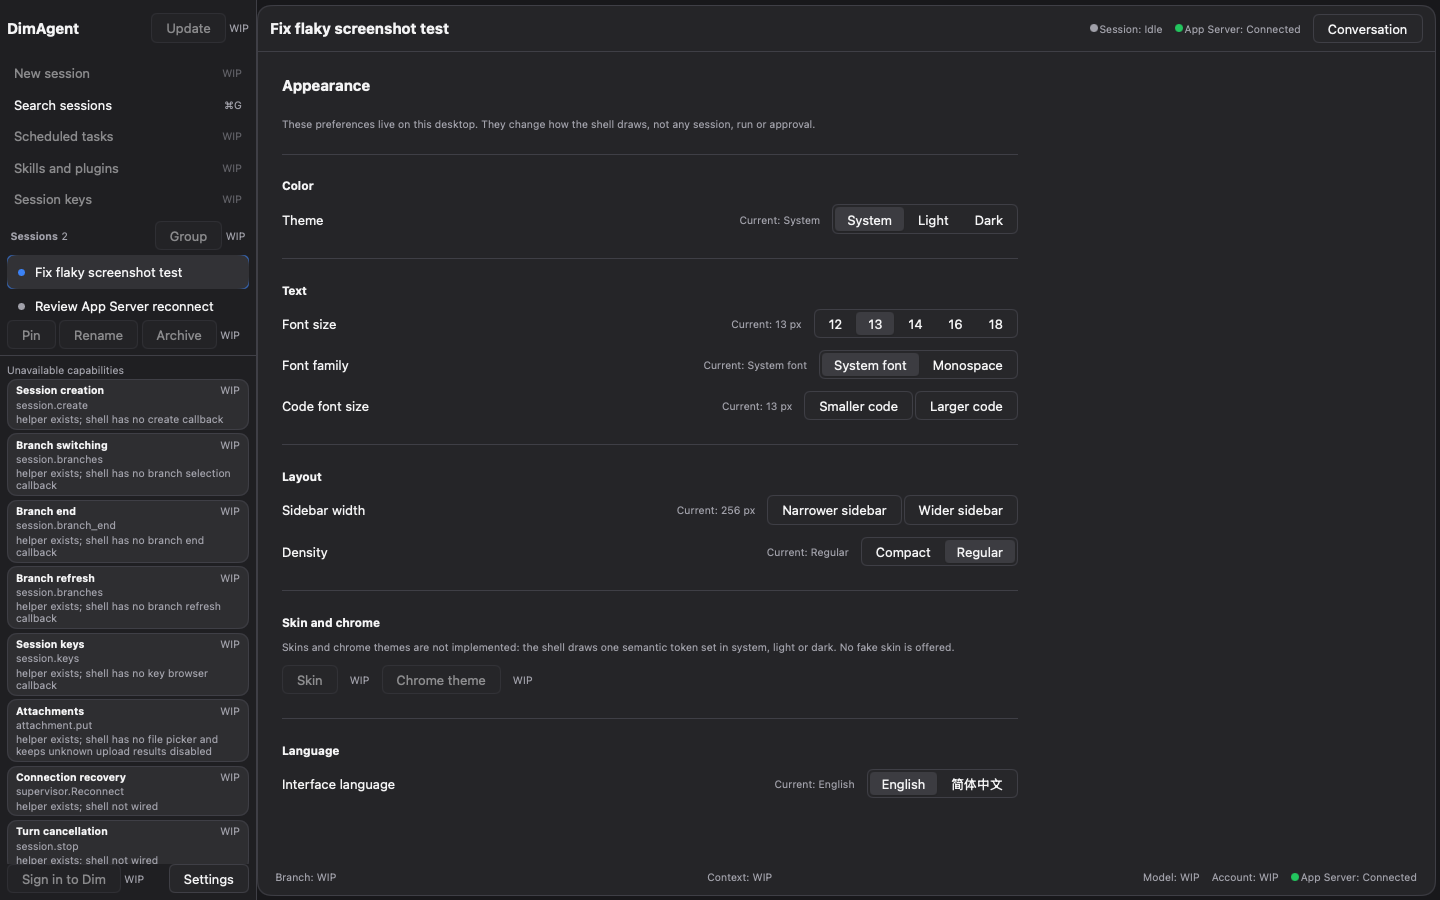
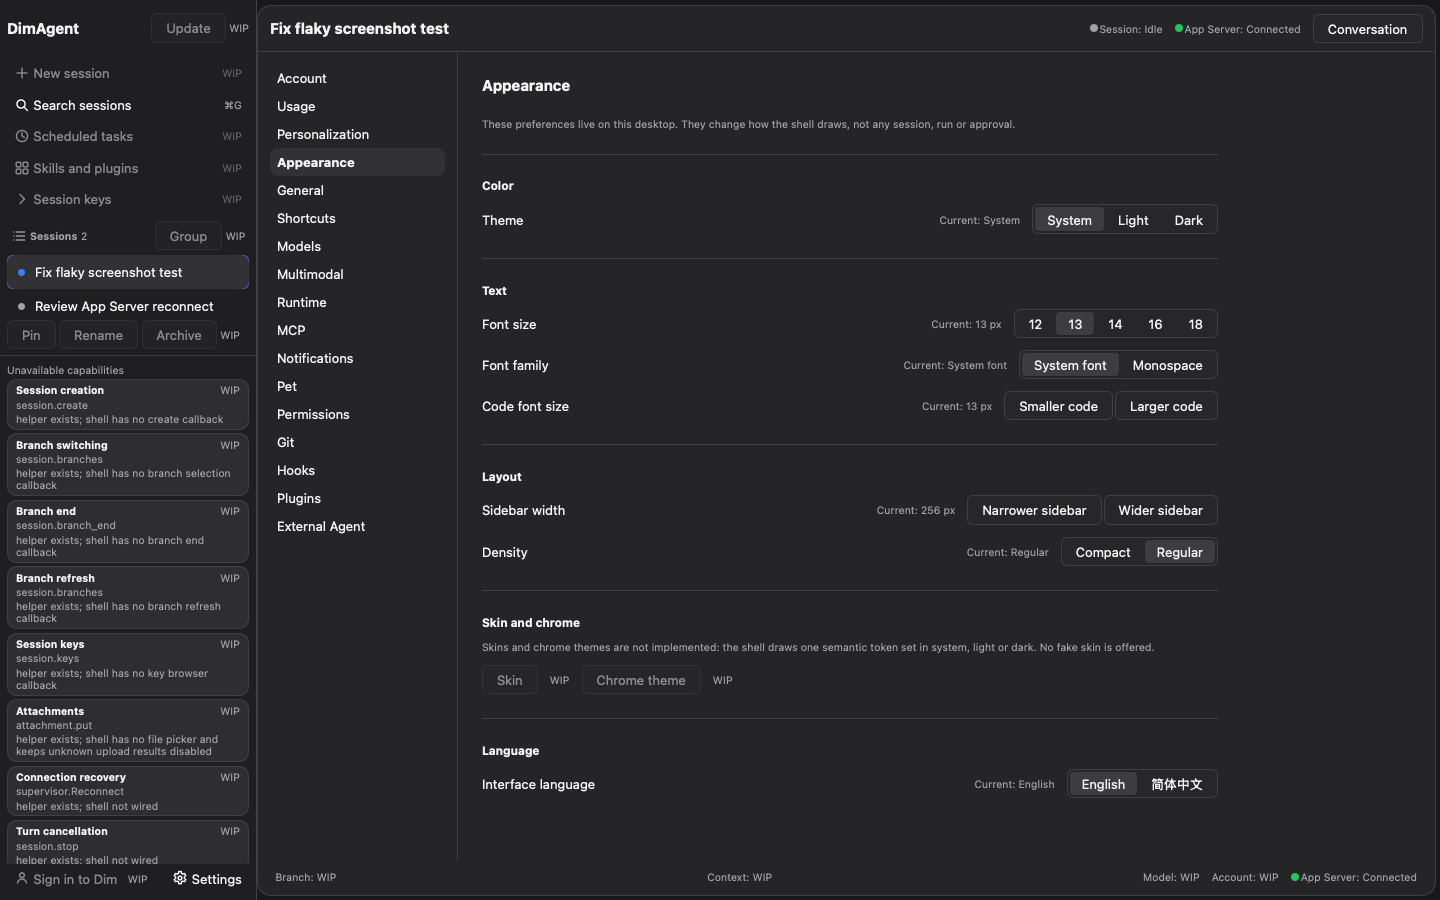
feat(ui): add settings navigation and localized section pages

diff --git a/internal/ui/i18n.go b/internal/ui/i18n.go
@@ -201,6 +201,10 @@ const (
 	keyCapabilityTurnCancel        = "capability.turnCancellation.action"
 	keyCapabilityTurnCancelGap     = "capability.turnCancellation.gap"
 
+	// Settings navigation: the section names and the WIP reason of each page the
+	// shell cannot open yet.
+	keySettingsNavigation = "settings.navigation"
+
 	// Layout pieces the shell draws around the conversation: the empty-state
 	// hero, the composer's context row and the sidebar's account footer.
 	keyHeroTitle            = "hero.title"
@@ -220,36 +224,61 @@ var stringsEN = Strings{
 	keyNoSession:           "No session",
 	keyComposerPlaceholder: composerPlaceholder,
 
-	keySidebarNavigation:    "Session sidebar",
-	keySidebarUpdate:        "Update",
-	keySidebarNewSession:    "New session",
-	keySidebarSearch:        "Search sessions",
-	keySidebarSearchLabel:   "Filter sessions",
-	keySidebarSearchHint:    "Title or id",
-	keySidebarKeys:          "Session keys",
-	keySidebarSessions:      "Sessions",
-	keySidebarGroup:         "Group",
-	keySidebarEmpty:         "No sessions yet",
-	keySidebarEmptyFiltered: "No matching sessions",
-	keySidebarUngrouped:     ungroupedLabel,
-	keySidebarBranches:      "Branches",
-	keySidebarBranchesRO:    "Branches (read-only)",
-	keySidebarBranchCurrent: "current",
-	keySidebarBranchSuffix:  " (current)",
-	keySidebarRefresh:       "Refresh",
-	keySidebarEndBranch:     "End branch",
-	keySidebarThreadActions: "Thread actions (unavailable)",
-	keySidebarPin:           "Pin",
-	keySidebarRename:        "Rename",
-	keySidebarArchive:       "Archive",
-	keySidebarScheduled:     "Scheduled tasks",
-	keySidebarSkills:        "Skills and plugins",
-	keySidebarAccount:       "Sign in to Dim",
-	keySidebarSettingsEntry: "Settings",
-	keyHeroTitle:            "Start building",
-	keyHeroSubtitle:         "Ask DimAgent to change code, run a command or explain a session.",
-	keyComposerWorkspace:    "Workspace",
-	keyComposerPermission:   "Default permissions",
+	keySidebarNavigation:       "Session sidebar",
+	keySidebarUpdate:           "Update",
+	keySidebarNewSession:       "New session",
+	keySidebarSearch:           "Search sessions",
+	keySidebarSearchLabel:      "Filter sessions",
+	keySidebarSearchHint:       "Title or id",
+	keySidebarKeys:             "Session keys",
+	keySidebarSessions:         "Sessions",
+	keySidebarGroup:            "Group",
+	keySidebarEmpty:            "No sessions yet",
+	keySidebarEmptyFiltered:    "No matching sessions",
+	keySidebarUngrouped:        ungroupedLabel,
+	keySidebarBranches:         "Branches",
+	keySidebarBranchesRO:       "Branches (read-only)",
+	keySidebarBranchCurrent:    "current",
+	keySidebarBranchSuffix:     " (current)",
+	keySidebarRefresh:          "Refresh",
+	keySidebarEndBranch:        "End branch",
+	keySidebarThreadActions:    "Thread actions (unavailable)",
+	keySidebarPin:              "Pin",
+	keySidebarRename:           "Rename",
+	keySidebarArchive:          "Archive",
+	keySidebarScheduled:        "Scheduled tasks",
+	keySidebarSkills:           "Skills and plugins",
+	keySidebarAccount:          "Sign in to Dim",
+	keySidebarSettingsEntry:    "Settings",
+	keyHeroTitle:               "Start building",
+	keyHeroSubtitle:            "Ask DimAgent to change code, run a command or explain a session.",
+	keyComposerWorkspace:       "Workspace",
+	keyComposerPermission:      "Default permissions",
+	keySettingsNavigation:      "Settings sections",
+	"settings.section.account": "Account", "settings.section.usage": "Usage",
+	"settings.section.personalization": "Personalization", "settings.section.general": "General",
+	"settings.section.shortcuts": "Shortcuts", "settings.section.models": "Models",
+	"settings.section.multimodal": "Multimodal", "settings.section.runtime": "Runtime",
+	"settings.section.mcp": "MCP", "settings.section.notifications": "Notifications",
+	"settings.section.pet": "Pet", "settings.section.permissions": "Permissions",
+	"settings.section.git": "Git", "settings.section.hooks": "Hooks",
+	"settings.section.plugins": "Plugins", "settings.section.externalAgent": "External Agent",
+	"settings.gap.account":         "Unavailable: the shell has no account client or page yet, so it cannot show an account or sign in.",
+	"settings.gap.usage":           "Unavailable: the shell has no usage client or page yet; no App Server method reports usage here.",
+	"settings.gap.personalization": "Unavailable: the personalization page is not built yet; the shell has no client for the interface-mode, ACP-session, target-app, assistant-model or subagent-model settings it shows.",
+	"settings.gap.general":         "Unavailable: the general settings page is not built yet; the shell has no client for its desktop preferences.",
+	"settings.gap.shortcuts":       "Unavailable: the shortcuts page is not built yet; the shell has no keybinding client or editor.",
+	"settings.gap.models":          "Unavailable: the models page is not built yet; the shell has no model-provider client or page.",
+	"settings.gap.multimodal":      "Unavailable: the multimodal page is not built yet; the shell has no multimodal client or page.",
+	"settings.gap.runtime":         "Unavailable: the runtime page is not built yet; the shell has no runtime client or page.",
+	"settings.gap.mcp":             "Unavailable: the MCP page is not built yet; the shell has no MCP server client or page.",
+	"settings.gap.notifications":   "Unavailable: the notifications page is not built yet; the shell has no notification client or page.",
+	"settings.gap.pet":             "Unavailable: the pet page is not built yet; the shell has no pet client or page.",
+	"settings.gap.permissions":     "Unavailable: the permissions page is not built yet; the shell shows approvals but has no rule editor, permissions client or page.",
+	"settings.gap.git":             "Unavailable: the Git page is not built yet; the shell has no Git client or page.",
+	"settings.gap.hooks":           "Unavailable: the hooks page is not built yet; the shell has no hooks client or page.",
+	"settings.gap.plugins":         "Unavailable: the plugins page is not built yet; the shell has no plugin client or page.",
+	"settings.gap.externalAgent":   "Unavailable: the external agent page is not built yet; the shell has no external-agent client or page.",
 
 	keyReasonCreateSession:   reasonCreateSession,
 	keyReasonApproval:        reasonApproval,
@@ -347,36 +376,61 @@ var stringsZHCN = Strings{
 	keyNoSession:           "未选择会话",
 	keyComposerPlaceholder: "给 DimAgent 发消息",
 
-	keySidebarNavigation:    "会话侧栏",
-	keySidebarUpdate:        "更新",
-	keySidebarNewSession:    "新建会话",
-	keySidebarSearch:        "搜索会话",
-	keySidebarSearchLabel:   "筛选会话",
-	keySidebarSearchHint:    "标题或 ID",
-	keySidebarKeys:          "会话键",
-	keySidebarSessions:      "会话",
-	keySidebarGroup:         "分组",
-	keySidebarEmpty:         "暂无会话",
-	keySidebarEmptyFiltered: "没有匹配的会话",
-	keySidebarUngrouped:     "无项目",
-	keySidebarBranches:      "分支",
-	keySidebarBranchesRO:    "分支（只读）",
-	keySidebarBranchCurrent: "当前",
-	keySidebarBranchSuffix:  "（当前）",
-	keySidebarRefresh:       "刷新",
-	keySidebarEndBranch:     "结束分支",
-	keySidebarThreadActions: "会话操作（不可用）",
-	keySidebarPin:           "置顶",
-	keySidebarScheduled:     "定时任务",
-	keySidebarSkills:        "技能/插件",
-	keySidebarAccount:       "登录 Dim",
-	keySidebarSettingsEntry: "设置",
-	keyHeroTitle:            "开始构建",
-	keyHeroSubtitle:         "让 DimAgent 改代码、跑命令，或解释一个会话。",
-	keyComposerWorkspace:    "工作区",
-	keyComposerPermission:   "默认权限",
-	keySidebarRename:        "重命名",
-	keySidebarArchive:       "归档",
+	keySidebarNavigation:       "会话侧栏",
+	keySidebarUpdate:           "更新",
+	keySidebarNewSession:       "新建会话",
+	keySidebarSearch:           "搜索会话",
+	keySidebarSearchLabel:      "筛选会话",
+	keySidebarSearchHint:       "标题或 ID",
+	keySidebarKeys:             "会话键",
+	keySidebarSessions:         "会话",
+	keySidebarGroup:            "分组",
+	keySidebarEmpty:            "暂无会话",
+	keySidebarEmptyFiltered:    "没有匹配的会话",
+	keySidebarUngrouped:        "无项目",
+	keySidebarBranches:         "分支",
+	keySidebarBranchesRO:       "分支（只读）",
+	keySidebarBranchCurrent:    "当前",
+	keySidebarBranchSuffix:     "（当前）",
+	keySidebarRefresh:          "刷新",
+	keySidebarEndBranch:        "结束分支",
+	keySidebarThreadActions:    "会话操作（不可用）",
+	keySidebarPin:              "置顶",
+	keySidebarScheduled:        "定时任务",
+	keySidebarSkills:           "技能/插件",
+	keySidebarAccount:          "登录 Dim",
+	keySidebarSettingsEntry:    "设置",
+	keyHeroTitle:               "开始构建",
+	keyHeroSubtitle:            "让 DimAgent 改代码、跑命令，或解释一个会话。",
+	keyComposerWorkspace:       "工作区",
+	keyComposerPermission:      "默认权限",
+	keySettingsNavigation:      "设置分区",
+	"settings.section.account": "账户", "settings.section.usage": "用量",
+	"settings.section.personalization": "个性化", "settings.section.general": "通用",
+	"settings.section.shortcuts": "快捷键", "settings.section.models": "模型供应",
+	"settings.section.multimodal": "多模态", "settings.section.runtime": "运行环境",
+	"settings.section.mcp": "MCP", "settings.section.notifications": "通知",
+	"settings.section.pet": "宠物", "settings.section.permissions": "权限",
+	"settings.section.git": "Git", "settings.section.hooks": "Hooks",
+	"settings.section.plugins": "插件设置", "settings.section.externalAgent": "外部 Agent",
+	"settings.gap.account":         "不可用：本 shell 还没有账户客户端或页面，无法显示账户或登录。",
+	"settings.gap.usage":           "不可用：本 shell 还没有用量客户端或页面，App Server 也没有报告用量的方法。",
+	"settings.gap.personalization": "不可用：个性化页面尚未实现；本 shell 没有界面模式、ACP 会话、目标应用、助手模型或子代理模型的客户端。",
+	"settings.gap.general":         "不可用：通用设置页面尚未实现；本 shell 没有对应的桌面偏好客户端。",
+	"settings.gap.shortcuts":       "不可用：快捷键页面尚未实现；本 shell 没有键位客户端或编辑器。",
+	"settings.gap.models":          "不可用：模型页面尚未实现；本 shell 没有模型供应客户端或页面。",
+	"settings.gap.multimodal":      "不可用：多模态页面尚未实现；本 shell 没有多模态客户端或页面。",
+	"settings.gap.runtime":         "不可用：运行环境页面尚未实现；本 shell 没有运行时客户端或页面。",
+	"settings.gap.mcp":             "不可用：MCP 页面尚未实现；本 shell 没有 MCP 服务器客户端或页面。",
+	"settings.gap.notifications":   "不可用：通知页面尚未实现；本 shell 没有通知客户端或页面。",
+	"settings.gap.pet":             "不可用：宠物页面尚未实现；本 shell 没有宠物客户端或页面。",
+	"settings.gap.permissions":     "不可用：权限页面尚未实现；本 shell 有审批，但没有规则编辑器、权限客户端或页面。",
+	"settings.gap.git":             "不可用：Git 页面尚未实现；本 shell 没有 Git 客户端或页面。",
+	"settings.gap.hooks":           "不可用：Hooks 页面尚未实现；本 shell 没有 hooks 客户端或页面。",
+	"settings.gap.plugins":         "不可用：插件设置页面尚未实现；本 shell 没有插件客户端或页面。",
+	"settings.gap.externalAgent":   "不可用：外部 Agent 页面尚未实现；本 shell 没有外部 Agent 客户端或页面。",
+	keySidebarRename:               "重命名",
+	keySidebarArchive:              "归档",
 
 	keyReasonCreateSession:   "不可用：窗口还没有 session.create 回调。",
 	keyReasonApproval:        "不可用：shell 还没有接到 approval.respond 的审批回调。",

diff --git a/internal/ui/settings.go b/internal/ui/settings.go
@@ -53,6 +53,7 @@ const (
 )
 
 // settingsNavigationLabel names the section column for assistive technology.
+// It stays the English fallback for a table that does not carry the key.
 // The reference has no message key for it yet, so the label stays English;
 // see the missing-key list in the surface's report.
 const settingsNavigationLabel = "Settings sections"
@@ -235,7 +236,48 @@ func settingsSectionLabel(l Locale, s SettingsSection) string {
 	if s == SettingsSectionAppearance {
 		return tr(l, keySettingsTitle)
 	}
-	return settingsSectionName(s)
+	return tr(l, "settings.section."+settingsSectionSlug(s))
+}
+
+// settingsSectionSlug is the message-key stem of a section. The appearance page
+// keeps its own key (settings.title), so it has no slug.
+func settingsSectionSlug(s SettingsSection) string {
+	switch s {
+	case SettingsSectionAccount:
+		return "account"
+	case SettingsSectionUsage:
+		return "usage"
+	case SettingsSectionPersonalization:
+		return "personalization"
+	case SettingsSectionGeneral:
+		return "general"
+	case SettingsSectionShortcuts:
+		return "shortcuts"
+	case SettingsSectionModels:
+		return "models"
+	case SettingsSectionMultimodal:
+		return "multimodal"
+	case SettingsSectionRuntime:
+		return "runtime"
+	case SettingsSectionMCP:
+		return "mcp"
+	case SettingsSectionNotifications:
+		return "notifications"
+	case SettingsSectionPet:
+		return "pet"
+	case SettingsSectionPermissions:
+		return "permissions"
+	case SettingsSectionGit:
+		return "git"
+	case SettingsSectionHooks:
+		return "hooks"
+	case SettingsSectionPlugins:
+		return "plugins"
+	case SettingsSectionExternalAgent:
+		return "externalAgent"
+	default:
+		return ""
+	}
 }
 
 // ThemeChoice is the appearance's color-theme preference: follow the desktop,
@@ -622,7 +664,7 @@ func settingsNavigation(c *ui.Context, k tokens, l Locale, section *SettingsSect
 	nav := ui.Column(c).BasisPercent(settingsNavShare).Shrink(0).MaxWidth(settingsNavW).
 		FillHeight().Padding(k.gapWide, k.gapWide).Gap(0).Clip().
 		BorderEndWidth(k.hairline).BorderColor(k.border).
-		Role(ui.RoleNavigation).Label(settingsNavigationLabel)
+		Role(ui.RoleNavigation).Label(tr(l, keySettingsNavigation))
 	nav.Children(func() {
 		for _, s := range settingsSections {
 			selected := s == *section
@@ -661,7 +703,7 @@ func settingsPage(c *ui.Context, k tokens, v SettingsView, section SettingsSecti
 				ui.Text(c, settingsSectionLabel(l, section)).Bold().FontSize(k.titleSize).
 					TextColor(k.foreground).Role(ui.RoleHeading).Level(1)
 				if section != SettingsSectionAppearance {
-					settingsWIPPage(c, k, section)
+					settingsWIPPage(c, k, section, v.Locale)
 					return
 				}
 				ui.Text(c, tr(l, keySettingsLocalNote)).FontSize(k.smallSize).TextColor(k.mutedForeground)
@@ -685,9 +727,15 @@ func settingsPage(c *ui.Context, k tokens, v SettingsView, section SettingsSecti
 // settingsWIPPage explains a section the shell has no page for: the visible
 // badge, then the missing client or page. It offers no control, so nothing on
 // the page can report a preference the desktop never saved.
-func settingsWIPPage(c *ui.Context, k tokens, section SettingsSection) {
+func settingsWIPPage(c *ui.Context, k tokens, section SettingsSection, l Locale) {
 	ui.Text(c, wipBadge).FontSize(k.smallSize).Bold().TextColor(k.mutedForeground)
-	ui.Text(c, settingsSectionGaps[section]).FontSize(k.bodySize).TextColor(k.mutedForeground)
+	gap := settingsSectionGaps[section]
+	if key := "settings.gap." + settingsSectionSlug(section); key != "settings.gap." {
+		if translated := tr(l, key); translated != key {
+			gap = translated
+		}
+	}
+	ui.Text(c, gap).FontSize(k.bodySize).TextColor(k.mutedForeground)
 }
 
 // settingsThemeSection is the color-theme row: one choice among System, Light
